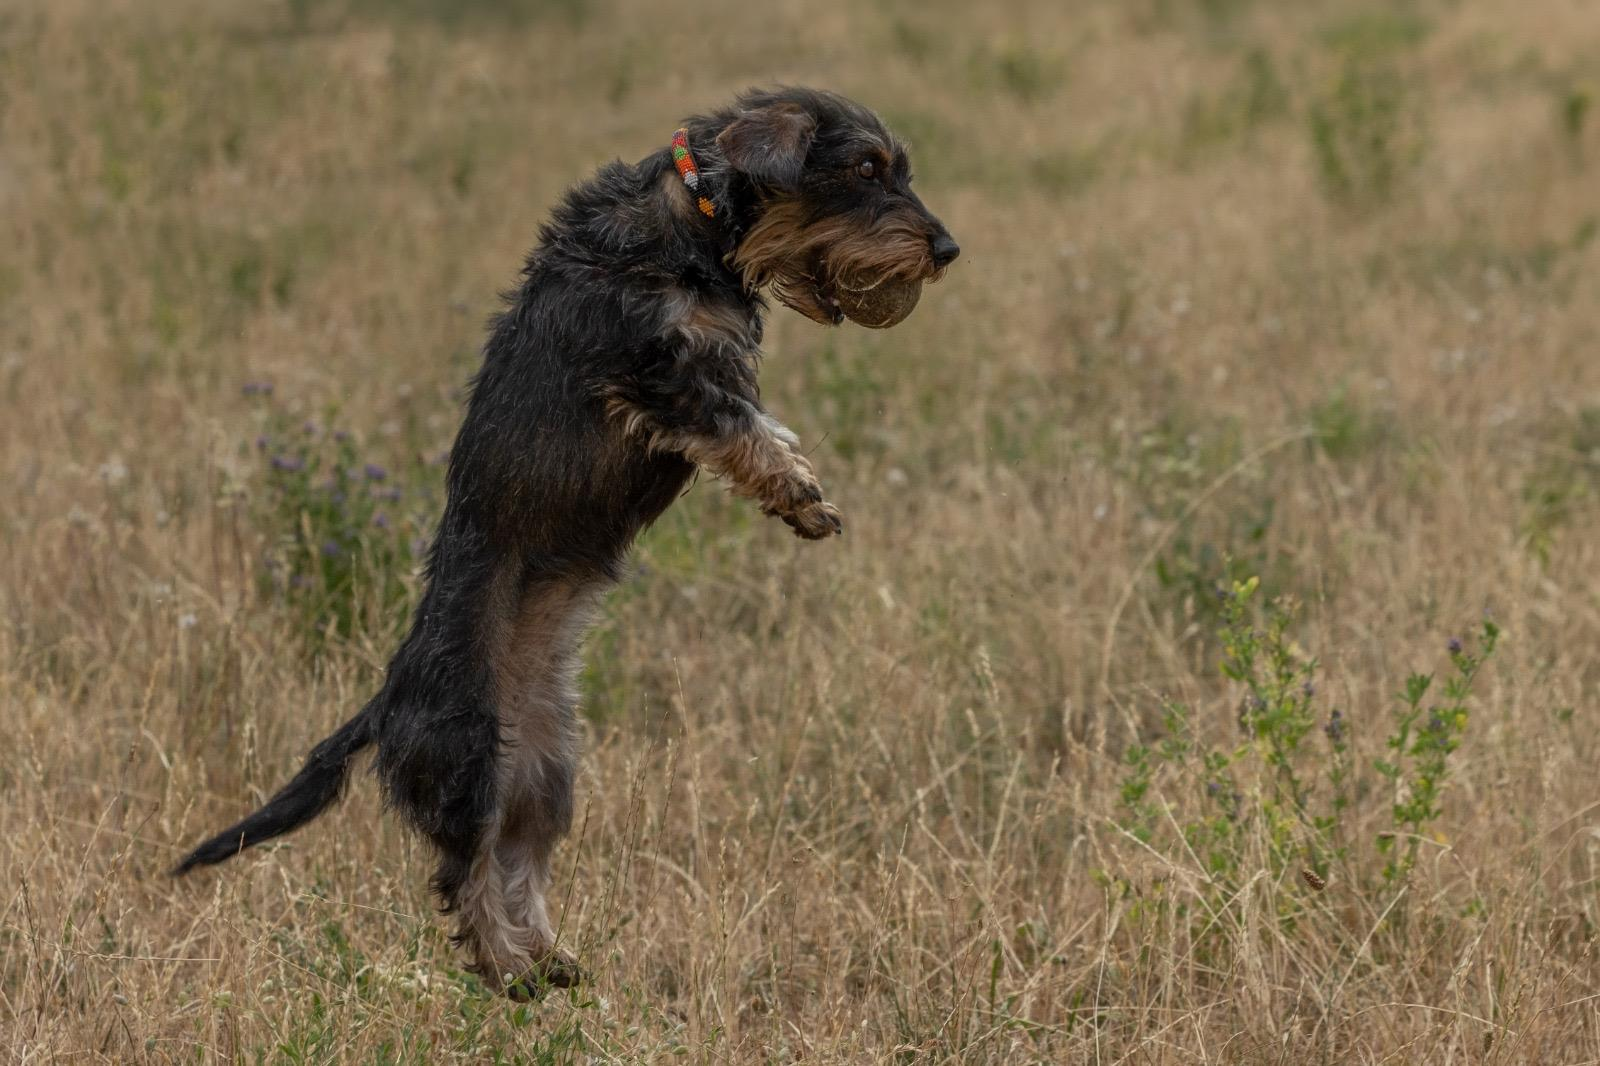
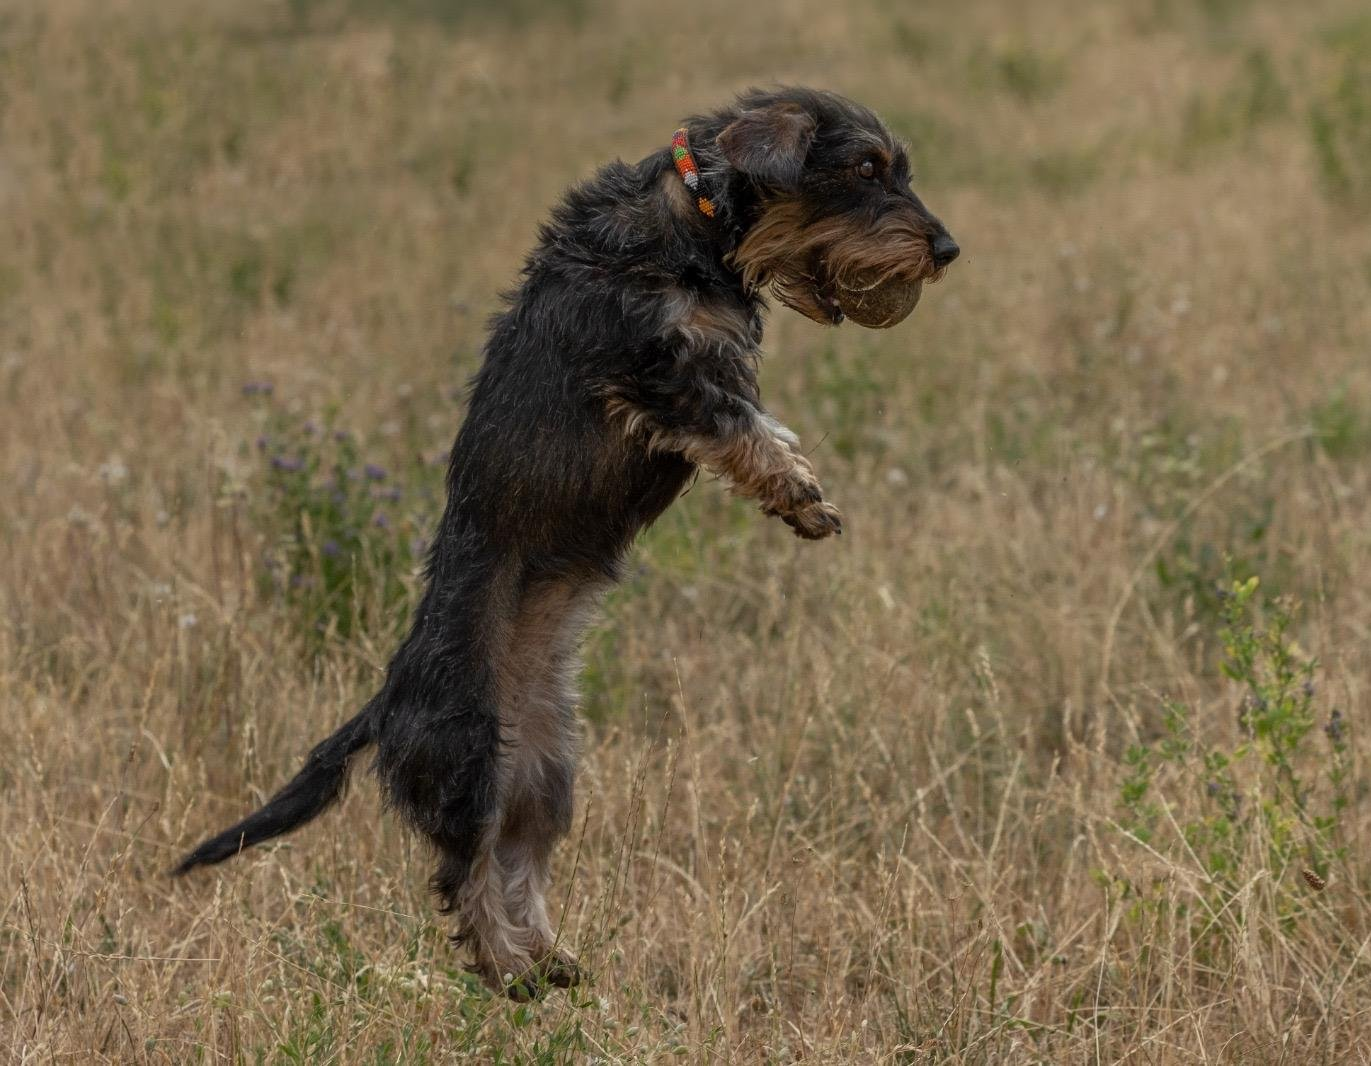
feat(tarif): update package images

diff --git a/res/rates/ratesContent.js b/res/rates/ratesContent.js
@@ -101,7 +101,7 @@ export const ratesContent = {
                     fr: ["raconter une histoire", "immortaliser une relation", "offrir un souvenir durable"],
                     en: ["telling a story", "immortalizing a bond", "offering a lasting memory"]
                 },
-                imgSrc: "res/rates/hero-heritage.jpeg"
+                imgSrc: "res/rates/hero-heritage.webp"
             },
             {
                 id: "exclusive",
